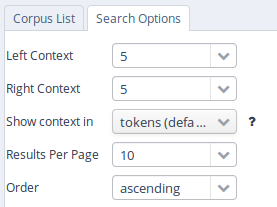
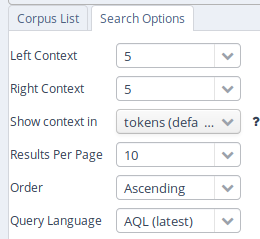
Add a section for the differences in the AQL compatibility mode

diff --git a/annis-gui/src/main/java/annis/gui/controlpanel/SearchOptionsPanel.java b/annis-gui/src/main/java/annis/gui/controlpanel/SearchOptionsPanel.java
@@ -174,7 +174,7 @@ public class SearchOptionsPanel extends FormLayout {
         cbQueryLanguage.setNullSelectionAllowed(false);
         cbQueryLanguage.setImmediate(true);
         cbQueryLanguage.setItemCaption(QueryLanguage.AQL, "AQL (latest)");
-        cbQueryLanguage.setItemCaption(QueryLanguage.AQL_QUIRKS_V3, "AQL (compatibility mode");
+        cbQueryLanguage.setItemCaption(QueryLanguage.AQL_QUIRKS_V3, "AQL (compatibility mode)");
 
         cbLeftContext.setVisible(false);
         cbRightContext.setVisible(false);

diff --git a/docs/src/mdbook/user-guide/src/aql-compatibility-mode.md b/docs/src/mdbook/user-guide/src/aql-compatibility-mode.md
@@ -1,0 +1,43 @@
+# Differences in Compatibility Mode
+
+Previous versions of ANNIS might have a slightly different interpretation of the semantics of AQL.
+By choosing the compatibility mode in the search options, you can emulate the old behavior.
+The compatibility mode (also called "quirks mode") has the following differences to the standard AQL semantics.
+
+## Indirect Precedence is limited to a maximum distance of 50
+
+Indirect precedence (`.*`) was limited to a maximum distance of 50 in older versions for performance reasons.
+E.g. the query `tok .* tok` is effectively `tok .1,50 tok`.
+Depending on the text length of the documents, the compatibility mode might return fewer matches than the normal mode.
+
+## Non-reflexive operator is only applied locally
+
+The operands of non-reflexive operators must be different.
+In standard AQL, a new match can be only included if the new match is different to all other matches.
+In contrast, the compatibility mode only enforces direct non-reflexivity.
+E.g. in the query
+```
+node  & node & node & #1 _o_ #2 & #2 _o_ #3
+``` 
+the first node must be different from the second node and the second node must be different from the third.
+In compatibility mode, it is allowed that `#1` and `#3` reference the same match because there is no 
+non-reflexive operator directly between them.
+You would need to change the query to
+```
+node  & node & node & #1 _o_ #2 & #2 _o_ #3 & #1 _o_ #3
+``` 
+to enforce that these operand are not the same.
+The standard mode will not include a match if `#1` and `#3` reference the same match per default.
+This does not affect the addition of matches if the operator is reflexive.
+
+## Meta-data constraints are applied to all conjunctions of a disjunction
+
+Meta-data constraints like `meta::doc="mydocumentname"` are applied to all conjunctions of the disjunction.
+E.g the query.
+```
+(pos="NN" | lemma="be" & meta::age="20")
+```
+effectively becomes
+```
+(pos="NN" & meta::age="20" | lemma="be" & meta::age="20")
+```

diff --git a/docs/src/mdbook/user-guide/src/interface-search-form.md b/docs/src/mdbook/user-guide/src/interface-search-form.md
@@ -23,10 +23,10 @@ set of matches.
 
 ![ANNIS search options](images/searchoptions.png)
 
-In order to get more control over the search you can click on \"Search
-Options\" to unfold more detailed search options. The context
+In order to get more control over the search you can click on "Search
+Options" to unfold more detailed search options. The context
 surrounding the matching expressions in the result list ist determined
-by the \"Left Context\" and \"Right Context\" options and can be changed
+by the "Left Context" and "Right Context" options and can be changed
 on each side (by default up to 20 tokens). You can also configure how
 many results are shown per page, what order results are shown in
 (ascending, descending or random) and for some corpora, you can select
@@ -34,3 +34,7 @@ alternative segmentation layers to visualize data (relevant for
 languages with multiple tokens per word form, etc., such as Arabic).
 Entire texts can also be viewed using special document visualizations or
 by clicking on the document icon next to each corpus name, if available.
+
+The "Query Language" option allows to switch between the default AQL dialect 
+and an [compatibility mode](aql-compatibility-mode.md) emulating the behavior of the older ANNIS3.
+Make sure to use the latest version for all new queries.

diff --git a/docs/src/mdbook/user-guide/src/SUMMARY.md b/docs/src/mdbook/user-guide/src/SUMMARY.md
@@ -17,6 +17,7 @@
     - [Exporting Results](./aql-export.md)
     - [Frequency Analysis](./aql-frequency.md)
     - [Complete List of Operators](./aql-operators.md)
+    - [Differences in Compatibility Mode](./aql-compatibility-mode.md)
 - [Configuring Visualizations](./visualizations.md)
     - [List of Visualizations](./visualizations-list.md)
     - [Maximal Context Size, Context Steps and Result Page Sizes](./visualizations-context.md)
